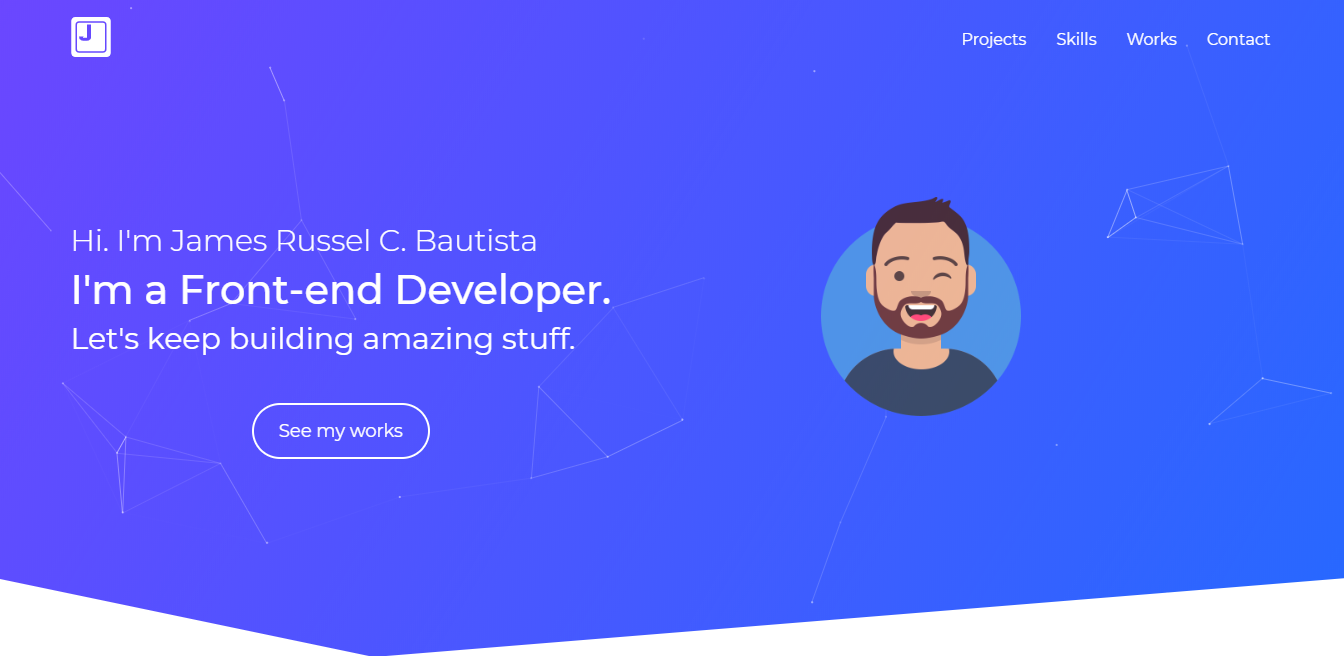
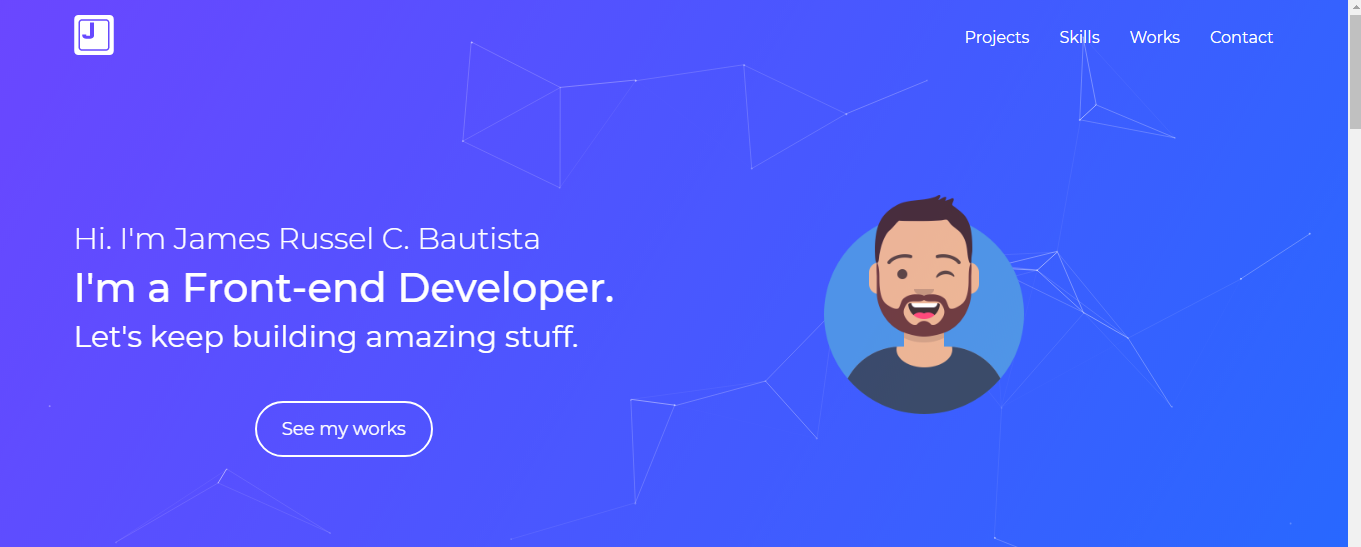
Update image

diff --git a/src/components/Footer.js b/src/components/Footer.js
@@ -7,14 +7,7 @@ const Footer = () => {
     <div className="site-footer__quote">"Everyday living is learning."</div>
     <div className="site-social"> 
       <div className="site-social__list"> 
-        <a href="#" className="site-social__link">
-        <svg viewBox="0 0 512 512" preserveAspectRatio="xMidYMid meet" className="site-social__icon" >
-        <path d="M179.7 237.6L179.7 284.2 256.7 284.2C253.6 304.2 233.4 342.9 179.7 342.9 133.4 342.9 95.6 304.4 95.6 257 95.6 209.6 133.4 171.1 179.7 171.1 206.1 171.1 223.7 182.4 233.8 192.1L270.6 156.6C247 134.4 216.4 121 179.7 121 104.7 121 44 181.8 44 257 44 332.2 104.7 393 179.7 393 258 393 310 337.8 310 260.1 310 251.2 309 244.4 307.9 237.6L179.7 237.6 179.7 237.6ZM468 236.7L429.3 236.7 429.3 198 390.7 198 390.7 236.7 352 236.7 352 275.3 390.7 275.3 390.7 314 429.3 314 429.3 275.3 468 275.3"></path>
-        </svg>
-        </a>
-      </div>  
-      <div className="site-social__list"> 
-        <a href="#" className="site-social__link">
+        <a href="https://www.facebook.com/jrussel.bautista" className="site-social__link">
         <svg className="site-social__icon" viewBox="0 0 512 512" preserveAspectRatio="xMidYMid meet">
         <path d="M211.9 197.4h-36.7v59.9h36.7V433.1h70.5V256.5h49.2l5.2-59.1h-54.4c0 0 0-22.1 0-33.7 0-13.9 2.8-19.5 16.3-19.5 10.9 0 38.2 0 38.2 0V82.9c0 0-40.2 0-48.8 0 -52.5 0-76.1 23.1-76.1 67.3C211.9 188.8 211.9 197.4 211.9 197.4z"></path>
         </svg>          

diff --git a/src/sass/_layout.scss b/src/sass/_layout.scss
@@ -117,12 +117,13 @@
 
 
 .site-intro {
-
-	//background-color: $color-primary;	
 	background-image: linear-gradient(120deg,#7054ff,#2669ff);	
-	height: 100vh;
+	height: 95vh;
 	color: #fff;
 
+	@media only screen and (max-width: $bp-medium) {
+		height: 100vh;
+	}
 
 	&::after {
 	    content: "";
@@ -140,6 +141,10 @@
 	&--with-clipmask {
 		clip-path: polygon(72% 0, 100% 0, 100% 88%, 28% 100%, 0 88%, 0 0);
 		padding-bottom: 3rem;
+
+		@media only screen and (max-width: $bp-medium) {
+			clip-path: none;
+		}
 	}
 
 
@@ -354,7 +359,7 @@
 		width: 100%;
 		height: 100%;
 		z-index: 1;
-		background-image: linear-gradient(120deg,#7054ff,#2669ff);	
+		background-image: linear-gradient(120deg, #7054ff,#2669ff);	
 		display: flex;
 		align-items: center;
 		justify-content: center;
@@ -373,6 +378,13 @@
 		font-weight: $semibold;
 		margin-bottom: 3rem;
 		line-height: 3rem;
+	}
+
+	&__name {
+	 line-height: 2.4rem;
+	  padding: 2rem 0;
+	  font-size: 2rem;
+	  cursor: pointer;
 	}
 
 }

diff --git a/src/components/Projects/ProjectList.js b/src/components/Projects/ProjectList.js
@@ -8,12 +8,12 @@ const ProjectList = ({ handleClickProject, imageUrl, title, link }) => {
                 <div className="site-project__img" style={{ backgroundImage: `url("${imageUrl}")` }}></div>
                 <div className="site-project__overlay">
                   <div className="site-project__info">
-                    <h1 className="site-project__title"> { title }  </h1>
                     <a href="javascript:void(0)" onClick={ handleClickProject } className="btn btn-outline-white btn-radius btn-md" type="button"> Learn More </a>                  
                   </div>
                 </div>
               </div>
             </div>
+            <div className="site-project__name" onClick={ handleClickProject }>{ title } </div>
           </div>
   )
 }

diff --git a/src/data/portfolio.js b/src/data/portfolio.js
@@ -12,7 +12,7 @@ const portfolioData = {
 			"imageUrl": "images/portfolio/hataw-thumbnail.png",
 			"link": "https://hataw.ph/",
 			"codeLink": "",
-			"description": "Hataw is an Ecommerce website that I was the one who do front-end stuff.",
+			"description": "Hataw is an Ecommerce website that I was the one who converted the designs from Adobe XD templates to html web pages templates.",
 			"technology": ["HTML/CSS", "SASS(SCSS)", "Javascript", "Zepto Js / Jquery"],
 		},
 

diff --git a/src/components/Modal/Modal.css b/src/components/Modal/Modal.css
@@ -17,7 +17,7 @@
 	max-width: 80%;
 	background-color: #fff;
 	padding: 2rem;
-	height: 80%;
+	height: 85%;
 	border-radius: 4px;
 }
 
